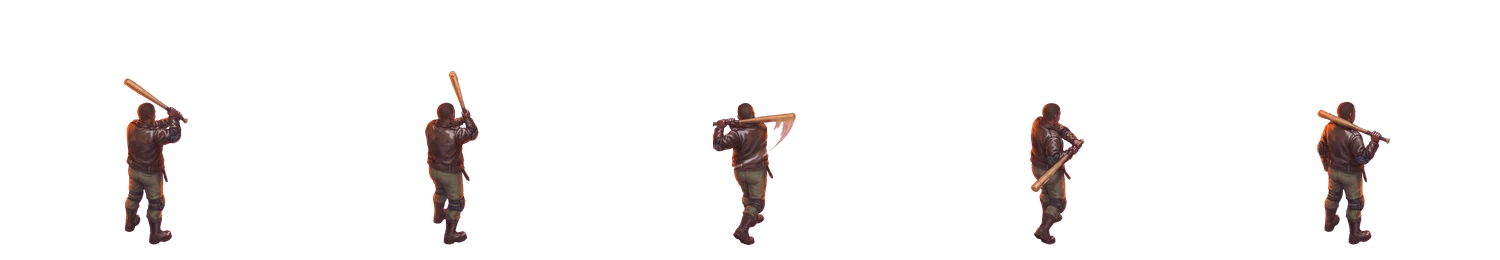
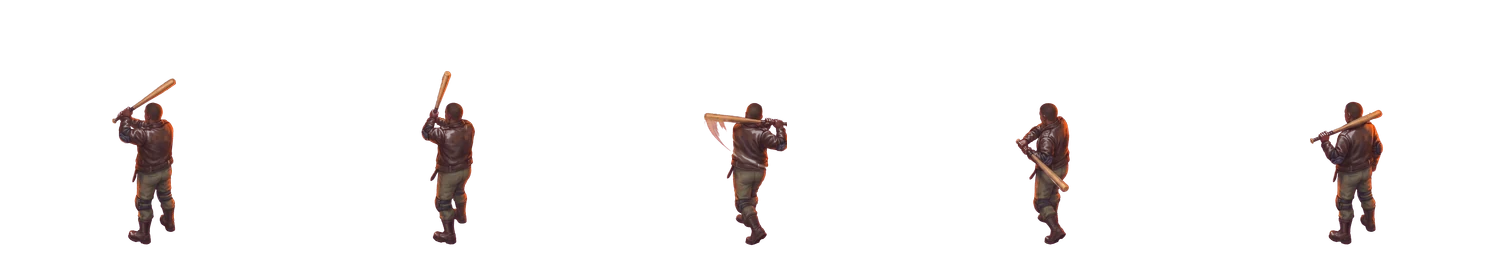
Face every attack sheet the right way automatically
The strike frame shows the weapon, arm or muzzle flash in front of
the body, so its mass either side of the feet tells which way a sheet
was painted. Le Chasseur shot to the left while aiming right.

diff --git a/tools/build_art.py b/tools/build_art.py
@@ -21,11 +21,9 @@ WEAPONS = ["molotov", "bat", "shotgun"]
 WORLD_W = 3600
 PREVIEW_W = 1100           # layout coordinates below were measured on an 1100 wide preview of the ground
 
-# Sheets painted facing left are mirrored so every sprite faces right; the game flips them when moving left.
-MIRROR = {
-    "pyro_bat_front": True, "pyro_shotgun_back": True,
-    "chasseur_bat_front": True, "chasseur_shotgun_back": True, "chasseur_molotov_back": True,
-}
+# Every sprite must face right; the game mirrors it when moving or aiming left. Attack sheets are checked
+# automatically (see faces_left); this table forces a sheet either way when the check gets it wrong.
+MIRROR = {}
 
 
 def load(name):
@@ -97,6 +95,14 @@ def row_cells(rgb, alpha, count):
     return frames
 
 
+def faces_left(frames):
+    """In the strike frame the weapon, arm or muzzle flash reaches out in front: compare its mass either side of the feet."""
+    rgb, mask, center, _ = frames[2]
+    ys, xs = np.where(mask > 0.5)
+    upper = ys < ys.min() + (ys.max() - ys.min()) * 0.6
+    return float(np.mean(xs[upper])) < center
+
+
 def write_sheet(frames, out, mirror):
     heights = [body_height(mask) for _, mask, _, _ in frames]
     scale = BODY_HEIGHT / float(np.median(heights))
@@ -123,7 +129,8 @@ def characters():
             for side, prefix in (("front", "atk"), ("back", "atkb")):
                 rgb = load(f"{name}_{prefix}_{weapon}")
                 out = f"{name}_{weapon}_{side}"
-                write_sheet(row_cells(rgb, key_alpha(rgb), 5), out, MIRROR.get(out, False))
+                frames = row_cells(rgb, key_alpha(rgb), 5)
+                write_sheet(frames, out, MIRROR.get(out, faces_left(frames)))
 
 
 def cut_objects(name, count, rows):
